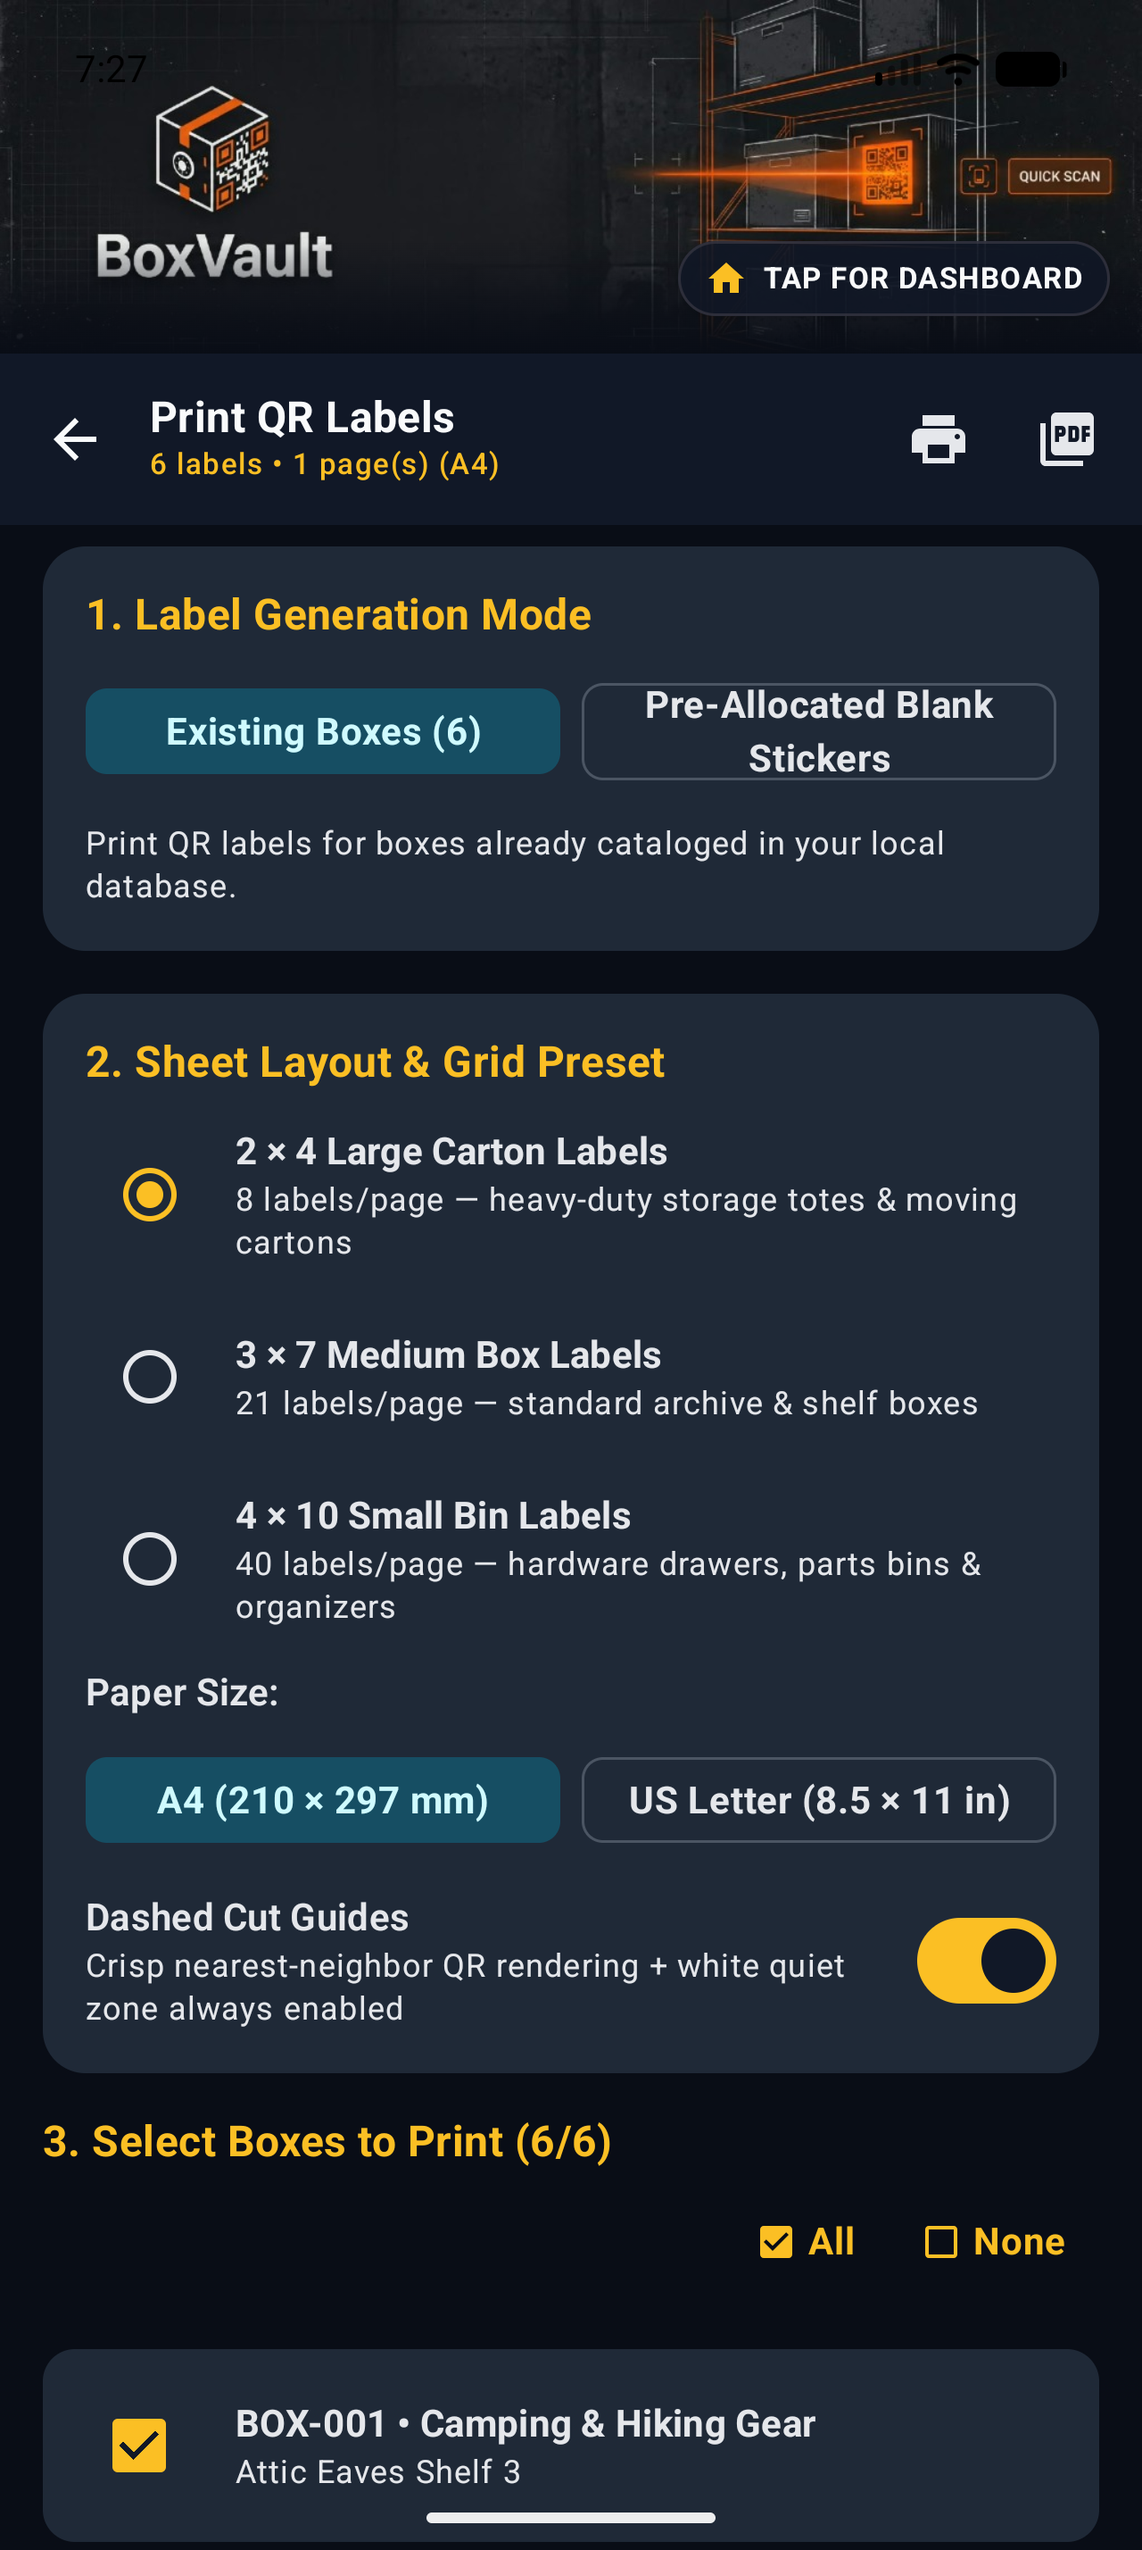
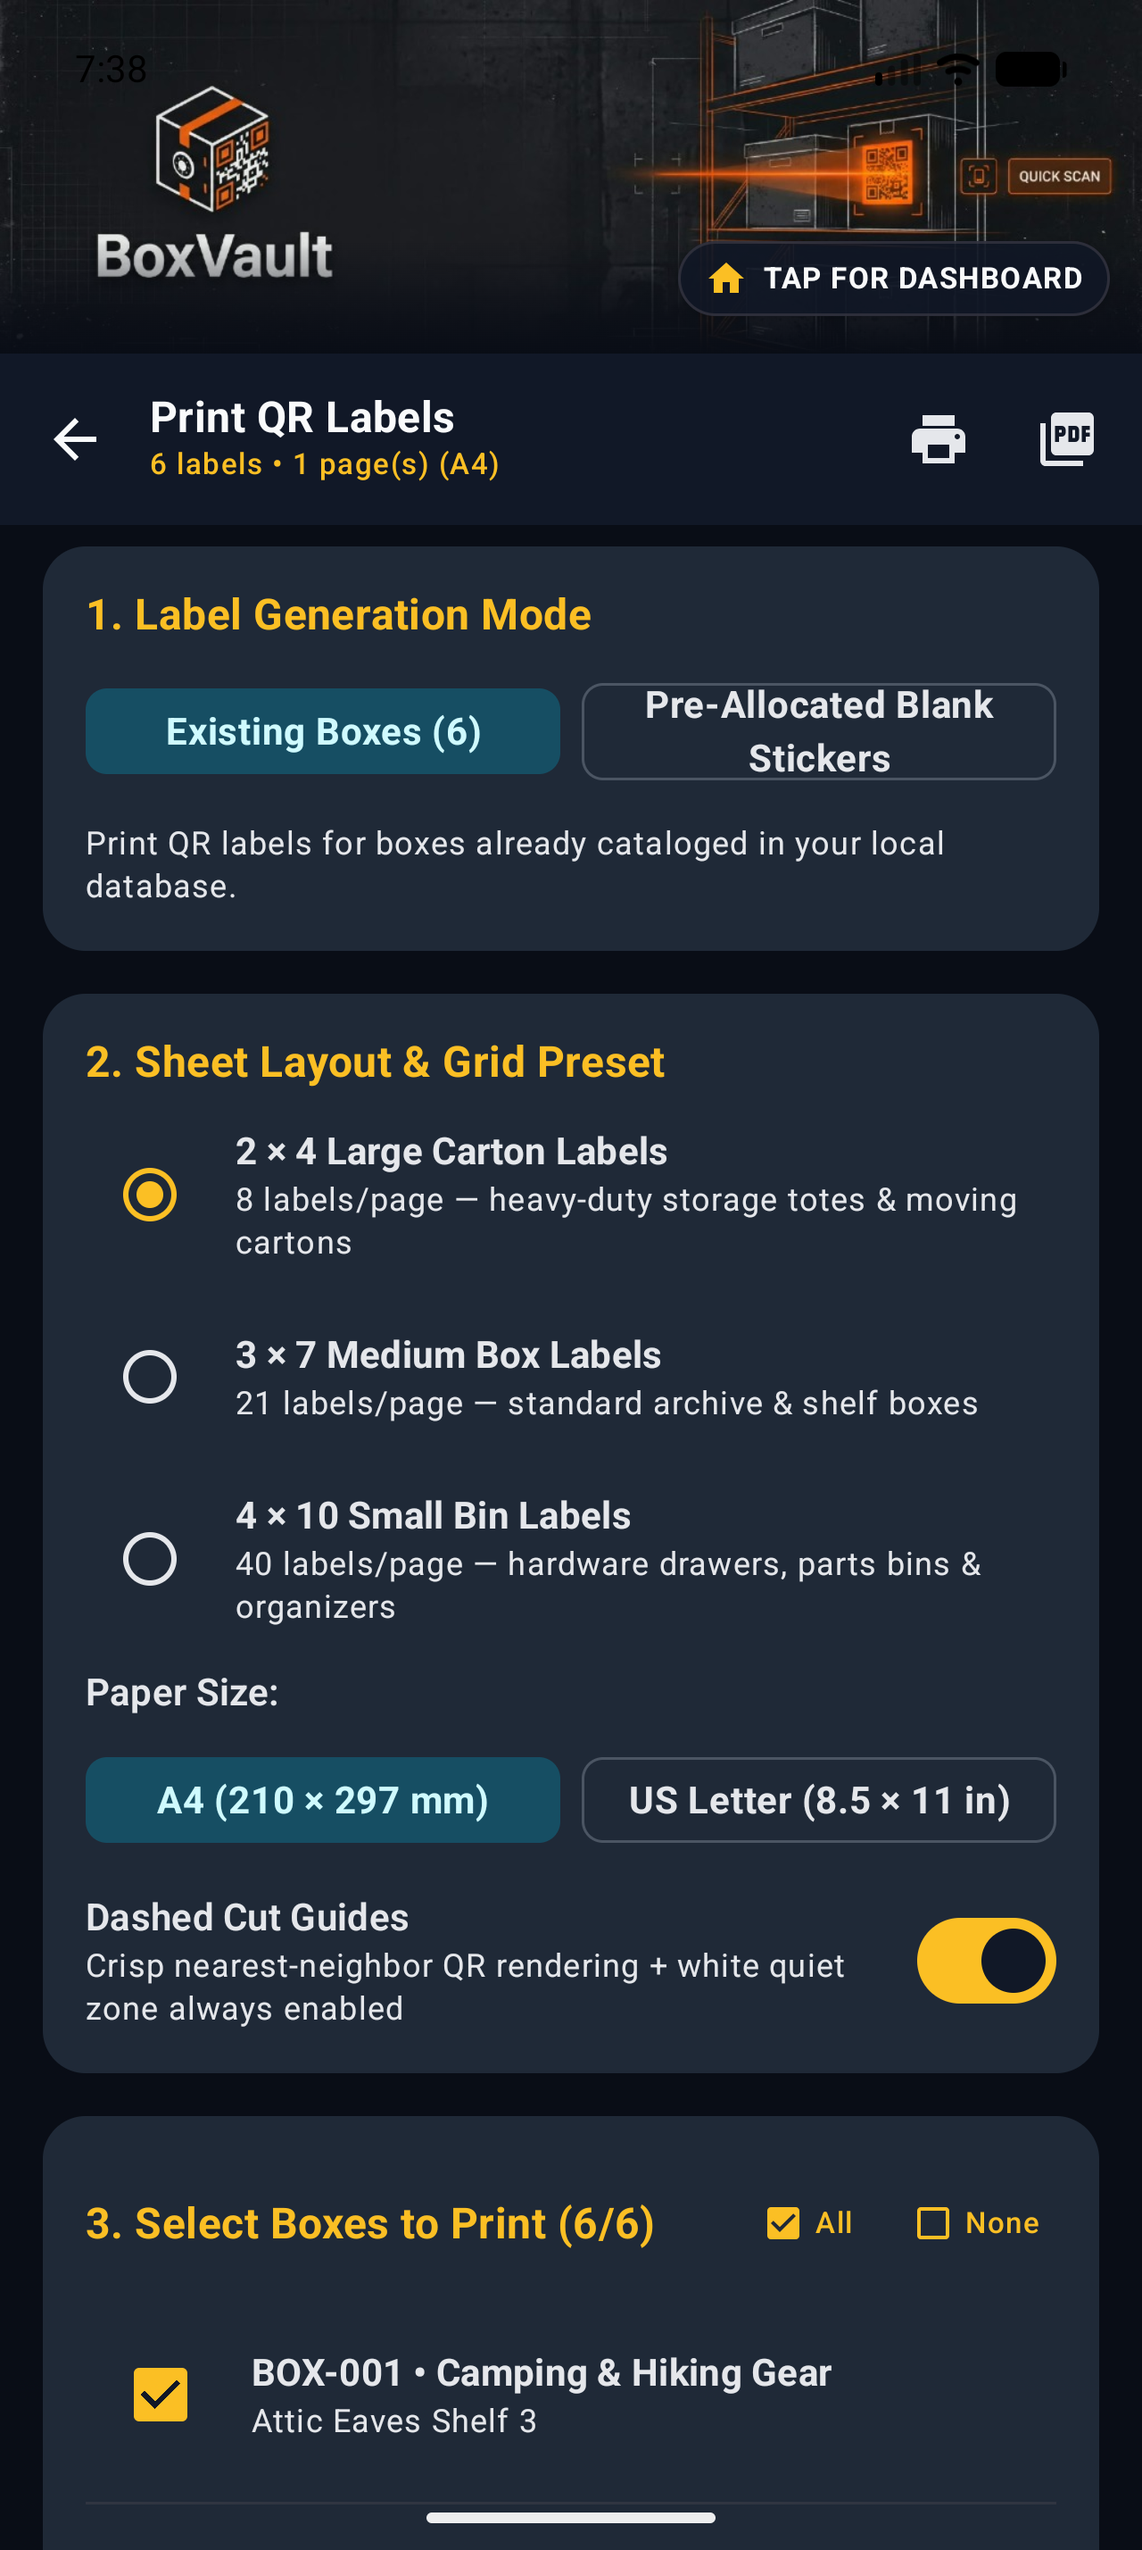
fix(ui): unify section 3 card styling and empty state in print screen

Changed region(s): [[0.0312, 0.8102, 0.9688, 1.0]]

diff --git a/app/src/main/java/com/boxvault/app/ui/screens/pdfgenerator/PdfGeneratorScreen.kt b/app/src/main/java/com/boxvault/app/ui/screens/pdfgenerator/PdfGeneratorScreen.kt
@@ -26,6 +26,8 @@ import androidx.compose.material.icons.Icons
 import androidx.compose.material.icons.automirrored.filled.ArrowBack
 import androidx.compose.material.icons.filled.CheckBox
 import androidx.compose.material.icons.filled.CheckBoxOutlineBlank
+import androidx.compose.material.icons.filled.ConfirmationNumber
+import androidx.compose.material.icons.filled.Inventory2
 import androidx.compose.material.icons.filled.PictureAsPdf
 import androidx.compose.material.icons.filled.Print
 import androidx.compose.material.icons.filled.Refresh
@@ -36,6 +38,7 @@ import androidx.compose.material3.CardDefaults
 import androidx.compose.material3.Checkbox
 import androidx.compose.material3.ExperimentalMaterial3Api
 import androidx.compose.material3.FilterChip
+import androidx.compose.material3.HorizontalDivider
 import androidx.compose.material3.Icon
 import androidx.compose.material3.IconButton
 import androidx.compose.material3.MaterialTheme
@@ -51,6 +54,7 @@ import androidx.compose.runtime.Composable
 import androidx.compose.runtime.getValue
 import androidx.compose.ui.Alignment
 import androidx.compose.ui.Modifier
+import androidx.compose.ui.draw.clip
 import androidx.compose.ui.platform.LocalContext
 import androidx.compose.ui.res.stringResource
 import androidx.compose.ui.text.font.FontWeight
@@ -407,7 +411,7 @@ fun PdfGeneratorScreen(
                         modifier = Modifier.fillMaxWidth(),
                         shape = RoundedCornerShape(16.dp),
                         colors = CardDefaults.cardColors(
-                            containerColor = MaterialTheme.colorScheme.surface
+                            containerColor = MaterialTheme.colorScheme.surfaceVariant
                         )
                     ) {
                         Column(
@@ -485,119 +489,147 @@ fun PdfGeneratorScreen(
                 }
             } else {
                 item {
-                    Column(
+                    Card(
                         modifier = Modifier.fillMaxWidth(),
-                        verticalArrangement = Arrangement.spacedBy(4.dp)
-                    ) {
-                        Text(
-                            text = stringResource(
-                                R.string.pdf_section_select_boxes,
-                                uiState.selectedBoxIds.size,
-                                uiState.allBoxes.size
-                            ),
-                            style = MaterialTheme.typography.titleMedium,
-                            fontWeight = FontWeight.Bold,
-                            color = MaterialTheme.colorScheme.primary
+                        shape = RoundedCornerShape(16.dp),
+                        colors = CardDefaults.cardColors(
+                            containerColor = MaterialTheme.colorScheme.surfaceVariant
                         )
-                        Row(
-                            modifier = Modifier.fillMaxWidth(),
-                            horizontalArrangement = Arrangement.End
-                        ) {
-                            TextButton(onClick = viewModel::selectAllBoxes) {
-                                Icon(
-                                    imageVector = Icons.Default.CheckBox,
-                                    contentDescription = null,
-                                    modifier = Modifier.size(16.dp)
-                                )
-                                Spacer(modifier = Modifier.width(4.dp))
-                                Text(stringResource(R.string.pdf_select_all))
-                            }
-                            TextButton(onClick = viewModel::clearBoxSelection) {
-                                Icon(
-                                    imageVector = Icons.Default.CheckBoxOutlineBlank,
-                                    contentDescription = null,
-                                    modifier = Modifier.size(16.dp)
-                                )
-                                Spacer(modifier = Modifier.width(4.dp))
-                                Text(stringResource(R.string.pdf_select_none))
-                            }
-                        }
-                    }
-                }
-
-                if (uiState.allBoxes.isEmpty()) {
-                    item {
-                        Card(
-                            modifier = Modifier.fillMaxWidth(),
-                            colors = CardDefaults.cardColors(
-                                containerColor = MaterialTheme.colorScheme.surfaceVariant
-                            )
-                        ) {
-                            Column(
-                                modifier = Modifier
-                                    .fillMaxWidth()
-                                    .padding(20.dp),
-                                horizontalAlignment = Alignment.CenterHorizontally,
-                                verticalArrangement = Arrangement.spacedBy(8.dp)
-                            ) {
-                                Text(
-                                    text = stringResource(R.string.pdf_no_boxes),
-                                    style = MaterialTheme.typography.titleMedium
-                                )
-                                OutlinedButton(
-                                    onClick = {
-                                        viewModel.onSourceModeChange(PdfLabelSourceMode.PRE_ALLOCATED_BLANK_LABELS)
-                                    }
-                                ) {
-                                    Text(
-                                        text = stringResource(R.string.pdf_switch_to_blank),
-                                        textAlign = TextAlign.Center
-                                    )
-                                }
-                            }
-                        }
-                    }
-                } else {
-                    items(
-                        items = uiState.allBoxes,
-                        key = { it.id }
-                    ) { box ->
-                        val isSelected = box.id in uiState.selectedBoxIds
-                        Card(
+                    ) {
+                        Column(
                             modifier = Modifier
                                 .fillMaxWidth()
-                                .clickable { viewModel.toggleBoxSelection(box.id) },
-                            shape = RoundedCornerShape(12.dp),
-                            colors = CardDefaults.cardColors(
-                                containerColor = if (isSelected) {
-                                    MaterialTheme.colorScheme.surfaceVariant
-                                } else {
-                                    MaterialTheme.colorScheme.surface
-                                }
-                            )
+                                .padding(16.dp),
+                            verticalArrangement = Arrangement.spacedBy(10.dp)
                         ) {
+                            // Header Row: Title on Left, Controls (Select All / None) on Right
                             Row(
-                                modifier = Modifier
-                                    .fillMaxWidth()
-                                    .padding(12.dp),
-                                verticalAlignment = Alignment.CenterVertically,
-                                horizontalArrangement = Arrangement.spacedBy(12.dp)
+                                modifier = Modifier.fillMaxWidth(),
+                                horizontalArrangement = Arrangement.SpaceBetween,
+                                verticalAlignment = Alignment.CenterVertically
                             ) {
-                                Checkbox(
-                                    checked = isSelected,
-                                    onCheckedChange = { viewModel.toggleBoxSelection(box.id) }
+                                Text(
+                                    text = stringResource(
+                                        R.string.pdf_section_select_boxes,
+                                        uiState.selectedBoxIds.size,
+                                        uiState.allBoxes.size
+                                    ),
+                                    style = MaterialTheme.typography.titleMedium,
+                                    fontWeight = FontWeight.Bold,
+                                    color = MaterialTheme.colorScheme.primary
                                 )
-                                Column(modifier = Modifier.weight(1f)) {
-                                    Text(
-                                        text = "${box.shortCode} • ${box.name}",
-                                        style = MaterialTheme.typography.titleSmall,
-                                        fontWeight = FontWeight.Bold
+
+                                if (uiState.allBoxes.isNotEmpty()) {
+                                    Row(horizontalArrangement = Arrangement.spacedBy(4.dp)) {
+                                        TextButton(
+                                            onClick = viewModel::selectAllBoxes,
+                                            contentPadding = PaddingValues(horizontal = 6.dp, vertical = 2.dp)
+                                        ) {
+                                            Icon(
+                                                imageVector = Icons.Default.CheckBox,
+                                                contentDescription = null,
+                                                modifier = Modifier.size(16.dp)
+                                            )
+                                            Spacer(modifier = Modifier.width(4.dp))
+                                            Text(
+                                                text = stringResource(R.string.pdf_select_all),
+                                                style = MaterialTheme.typography.labelSmall
+                                            )
+                                        }
+                                        TextButton(
+                                            onClick = viewModel::clearBoxSelection,
+                                            contentPadding = PaddingValues(horizontal = 6.dp, vertical = 2.dp)
+                                        ) {
+                                            Icon(
+                                                imageVector = Icons.Default.CheckBoxOutlineBlank,
+                                                contentDescription = null,
+                                                modifier = Modifier.size(16.dp)
+                                            )
+                                            Spacer(modifier = Modifier.width(4.dp))
+                                            Text(
+                                                text = stringResource(R.string.pdf_select_none),
+                                                style = MaterialTheme.typography.labelSmall
+                                            )
+                                        }
+                                    }
+                                }
+                            }
+
+                            // Content inside Section 3 Card
+                            if (uiState.allBoxes.isEmpty()) {
+                                // Empty state inside the Card
+                                Column(
+                                    modifier = Modifier
+                                        .fillMaxWidth()
+                                        .padding(vertical = 12.dp),
+                                    horizontalAlignment = Alignment.CenterHorizontally,
+                                    verticalArrangement = Arrangement.spacedBy(8.dp)
+                                ) {
+                                    Icon(
+                                        imageVector = Icons.Default.Inventory2,
+                                        contentDescription = null,
+                                        tint = MaterialTheme.colorScheme.primary.copy(alpha = 0.6f),
+                                        modifier = Modifier.size(36.dp)
                                     )
                                     Text(
-                                        text = box.location.ifBlank { stringResource(R.string.pdf_no_location) },
-                                        style = MaterialTheme.typography.bodySmall,
+                                        text = stringResource(R.string.pdf_no_boxes),
+                                        style = MaterialTheme.typography.bodyMedium,
+                                        textAlign = TextAlign.Center,
                                         color = MaterialTheme.colorScheme.onSurfaceVariant
                                     )
+                                    OutlinedButton(
+                                        onClick = {
+                                            viewModel.onSourceModeChange(PdfLabelSourceMode.PRE_ALLOCATED_BLANK_LABELS)
+                                        }
+                                    ) {
+                                        Icon(
+                                            imageVector = Icons.Default.ConfirmationNumber,
+                                            contentDescription = null,
+                                            modifier = Modifier.size(16.dp)
+                                        )
+                                        Spacer(modifier = Modifier.width(6.dp))
+                                        Text(
+                                            text = stringResource(R.string.pdf_switch_to_blank),
+                                            textAlign = TextAlign.Center
+                                        )
+                                    }
+                                }
+                            } else {
+                                // List of boxes inside the Card with clean rows and dividers
+                                uiState.allBoxes.forEachIndexed { index, box ->
+                                    if (index > 0) {
+                                        HorizontalDivider(
+                                            color = MaterialTheme.colorScheme.outlineVariant.copy(alpha = 0.4f),
+                                            thickness = 1.dp
+                                        )
+                                    }
+                                    val isSelected = box.id in uiState.selectedBoxIds
+                                    Row(
+                                        modifier = Modifier
+                                            .fillMaxWidth()
+                                            .clip(RoundedCornerShape(8.dp))
+                                            .clickable { viewModel.toggleBoxSelection(box.id) }
+                                            .padding(vertical = 6.dp, horizontal = 4.dp),
+                                        verticalAlignment = Alignment.CenterVertically,
+                                        horizontalArrangement = Arrangement.spacedBy(10.dp)
+                                    ) {
+                                        Checkbox(
+                                            checked = isSelected,
+                                            onCheckedChange = { viewModel.toggleBoxSelection(box.id) }
+                                        )
+                                        Column(modifier = Modifier.weight(1f)) {
+                                            Text(
+                                                text = "${box.shortCode} • ${box.name}",
+                                                style = MaterialTheme.typography.titleSmall,
+                                                fontWeight = FontWeight.Bold
+                                            )
+                                            Text(
+                                                text = box.location.ifBlank { stringResource(R.string.pdf_no_location) },
+                                                style = MaterialTheme.typography.bodySmall,
+                                                color = MaterialTheme.colorScheme.onSurfaceVariant
+                                            )
+                                        }
+                                    }
                                 }
                             }
                         }
